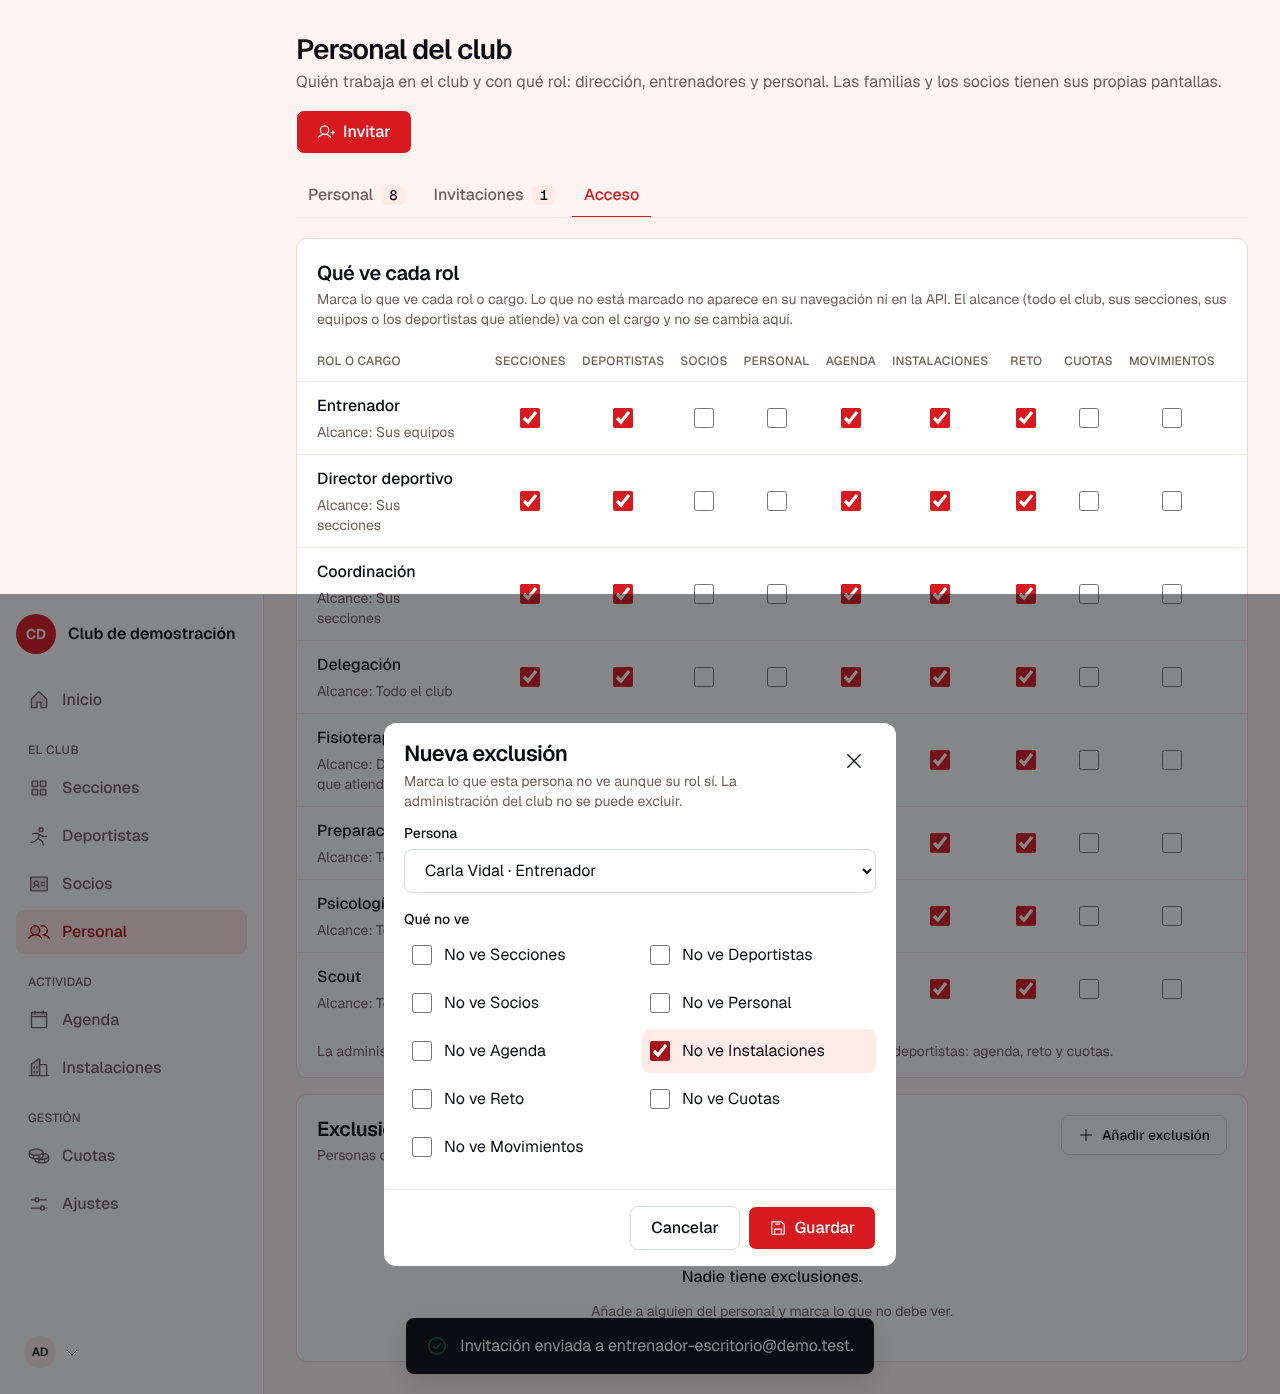
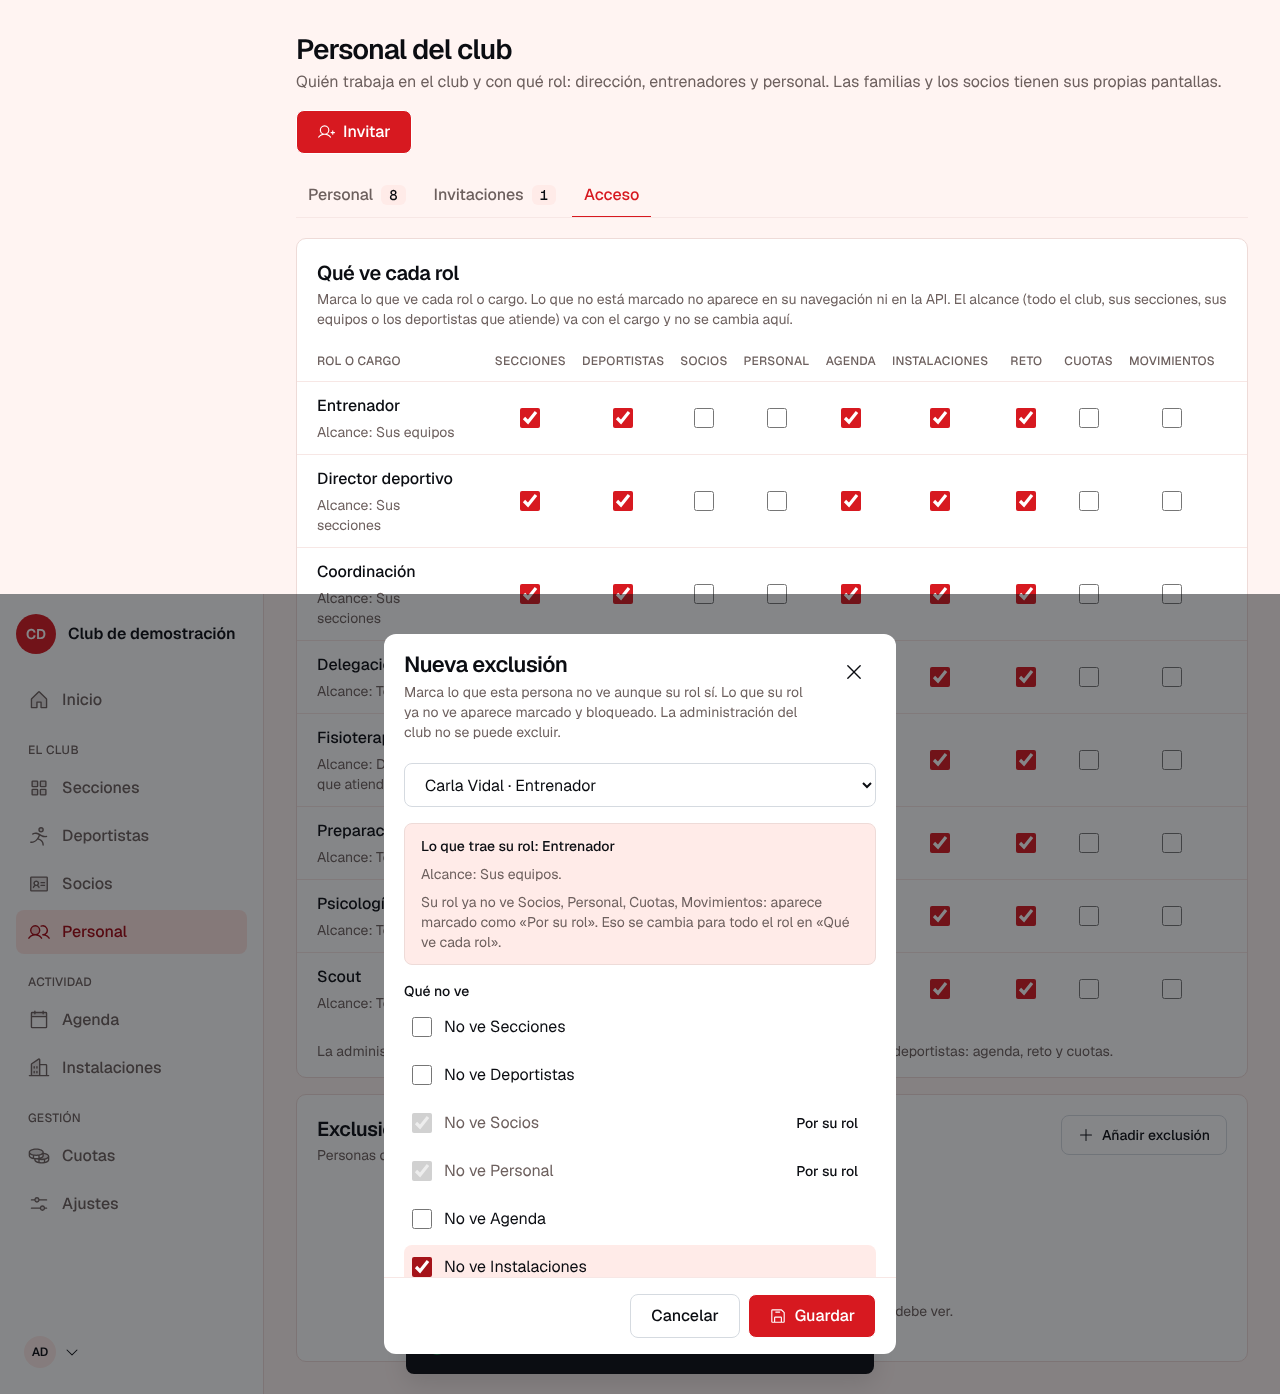
Nueva exclusión: enseña lo que ya trae el rol de la persona
Al elegir a alguien en la hoja de exclusión, se ve qué trae su rol: el rol o cargo, su
alcance (sus equipos, sus secciones, deportistas que atiende o todo el club) y las áreas
que su rol ya no ve. Esas aparecen marcadas y bloqueadas como "Por su rol"; solo se puede
excluir lo que su rol sí ve. Lo que el rol ya no ve tampoco se guarda como exclusión.

- web: lo que ve por su rol sale de la matriz del club (rol y cargo con las reglas
  aplicadas), el mismo cálculo que la API sin las exclusiones de la persona. La lista de
  exclusiones dice también el rol de cada persona. Áreas en una sola columna.
- textos en es, ca y en.
- prueba de interfaz: el resumen del rol, el alcance y las cuatro áreas bloqueadas de
  una entrenadora. Captura actualizada.

Claude-Session: https://claude.ai/code/session_01Czre9YcmjPjDi8XEnJNsAN

Changed region(s): [[0.2812, 0.4319, 0.7188, 0.9871]]

diff --git a/apps/web/src/routes/club/staff-access.tsx b/apps/web/src/routes/club/staff-access.tsx
@@ -2,12 +2,17 @@ import {
   ACCESS_AREAS,
   AccessOverviewResponseSchema,
   AccessProfileRowSchema,
+  defaultPermissionsOf,
+  isAreaVisible,
   MemberExclusionsResponseSchema,
   MembersResponseSchema,
+  profileOf,
+  scopeKindsOf,
   type AccessArea,
   type AccessOverviewResponse,
   type AccessProfileRow,
   type ConfigurableProfile,
+  type MembershipRole,
   type MembersResponse,
 } from "@sportsmanager/shared";
 import { useQuery, useQueryClient } from "@tanstack/react-query";
@@ -33,6 +38,30 @@ import {
 type Exclusion = AccessOverviewResponse["exclusions"][number];
 type Member = MembersResponse["members"][number];
 
+/** Las pertenencias de una persona del personal, con su cargo: de ahí salen su perfil y su alcance. */
+const membershipsOf = (m: Member): MembershipRole[] =>
+  m.roles.map((roleCode) => ({ roleCode, position: roleCode === "staff" ? m.position : null }));
+
+/**
+ * Lo que una persona ve por su rol, antes de sus exclusiones: por cada rol o cargo, lo que dice la
+ * matriz del club (el rol y el cargo con las reglas aplicadas); con varios, la suma. Mismo cálculo
+ * que la API (`effectivePermissions` sin las exclusiones de la persona).
+ */
+function areasByRole(member: Member, profiles: AccessProfileRow[]): Set<AccessArea> {
+  const visible = new Set<AccessArea>();
+  for (const membership of membershipsOf(member)) {
+    const profile = profileOf(membership);
+    const row = profiles.find((p) => p.profile === profile);
+    for (const area of ACCESS_AREAS) {
+      const sees = row
+        ? (row.areas.find((a) => a.area === area)?.visible ?? false)
+        : isAreaVisible(defaultPermissionsOf(profile), area);
+      if (sees) visible.add(area);
+    }
+  }
+  return visible;
+}
+
 /**
  * Qué ve cada rol (Bloque 19, ADR 0033): una matriz con un check por rol o cargo y área. Lo que
  * se marca o desmarca respecto a lo de por defecto queda como regla del club; volver a lo de por
@@ -57,6 +86,19 @@ export function AccessMatrix() {
     queryKey: ["org", slug, "access"],
     queryFn: () => apiFetch("/api/org/access", { schema: AccessOverviewResponseSchema }),
   });
+  /** Para decir el rol de cada persona con exclusiones (y lo que ve por él, en la hoja). */
+  const members = useQuery({
+    queryKey: ["org", slug, "members"],
+    queryFn: () => apiFetch("/api/org/members", { schema: MembersResponseSchema }),
+  });
+  const roleOf = (userId: string) => {
+    const m = members.data?.members.find((x) => x.userId === userId);
+    return m
+      ? m.roles
+          .map((r) => (r === "staff" && m.position ? positions(m.position) : roles(r)))
+          .join(" · ")
+      : null;
+  };
   const profileLabel = (p: ConfigurableProfile) => (p === "coach" ? roles("coach") : positions(p));
   const areaLabel = (a: AccessArea) => t(`areas.${a}`);
 
@@ -208,7 +250,12 @@ export function AccessMatrix() {
               <li key={e.userId} className="flex min-h-16 flex-wrap items-center gap-3 px-5 py-3">
                 <Avatar name={e.name} />
                 <span className="flex min-w-0 flex-1 flex-col gap-1">
-                  <span className="truncate font-medium text-ink">{e.name}</span>
+                  <span className="truncate font-medium text-ink">
+                    {e.name}
+                    {roleOf(e.userId) ? (
+                      <span className="font-normal text-muted"> · {roleOf(e.userId)}</span>
+                    ) : null}
+                  </span>
                   <span className="flex flex-wrap gap-1">
                     {e.areas.map((a) => (
                       <StatusChip key={a} kind="warning">
@@ -235,6 +282,7 @@ export function AccessMatrix() {
         <ExclusionSheet
           editing={editing === "new" ? null : editing}
           exclusions={exclusions}
+          profiles={rows}
           onClose={() => setEditing(null)}
           onSaved={() => void client.invalidateQueries({ queryKey: ["org", slug] })}
         />
@@ -255,17 +303,20 @@ export function AccessMatrix() {
 
 /**
  * Añadir o cambiar las exclusiones de una persona: quién (solo al añadir) y qué áreas no ve aunque
- * su rol sí. La administración del club no aparece: no se puede excluir. Sin ningún área marcada,
- * la persona deja de tener exclusiones.
+ * su rol sí. Enseña lo que ya trae su rol: su alcance, y las áreas que su rol no ve aparecen
+ * marcadas y bloqueadas ("Por su rol"); solo se excluye lo que su rol sí ve. La administración del
+ * club no aparece: no se puede excluir. Sin ningún área marcada, la persona deja de tener exclusiones.
  */
 function ExclusionSheet({
   editing,
   exclusions,
+  profiles,
   onClose,
   onSaved,
 }: {
   editing: Exclusion | null;
   exclusions: Exclusion[];
+  profiles: AccessProfileRow[];
   onClose: () => void;
   onSaved: () => void;
 }) {
@@ -280,7 +331,6 @@ function ExclusionSheet({
   const members = useQuery({
     queryKey: ["org", slug, "members"],
     queryFn: () => apiFetch("/api/org/members", { schema: MembersResponseSchema }),
-    enabled: editing === null,
   });
   /** Se puede excluir a quien trabaja en el club y no lo administra: ni familias solas ni administración. */
   const candidates = (members.data?.members ?? []).filter(
@@ -288,7 +338,8 @@ function ExclusionSheet({
   );
   const [userId, setUserId] = useState(editing?.userId ?? "");
   const selectedId = editing?.userId ?? (userId || candidates[0]?.userId || "");
-  const selectedName = editing?.name ?? candidates.find((m) => m.userId === selectedId)?.name ?? "";
+  const selected = (members.data?.members ?? []).find((m) => m.userId === selectedId) ?? null;
+  const selectedName = editing?.name ?? selected?.name ?? "";
   const current = (id: string) => new Set(exclusions.find((e) => e.userId === id)?.areas ?? []);
   const [excluded, setExcluded] = useState<Set<AccessArea>>(() => current(editing?.userId ?? ""));
   const [busy, setBusy] = useState(false);
@@ -298,17 +349,32 @@ function ExclusionSheet({
     m.roles
       .map((r) => (r === "staff" && m.position ? positions(m.position) : roles(r)))
       .join(" · ");
+  const areaLabel = (a: AccessArea) => t(`areas.${a}`);
+
+  /** Lo que trae su rol: hasta que se sabe quién es, nada se bloquea. */
+  const byRole = selected ? areasByRole(selected, profiles) : null;
+  const seesByRole = (a: AccessArea) => byRole === null || byRole.has(a);
+  /** Solo cuenta lo que su rol ve: excluir lo que ya no ve no cambia nada. */
+  const toSave = ACCESS_AREAS.filter((a) => excluded.has(a) && seesByRole(a));
+  const hiddenByRole = byRole ? ACCESS_AREAS.filter((a) => !byRole.has(a)) : [];
+  const scopeKinds = selected ? scopeKindsOf(membershipsOf(selected)) : null;
+  const scopeLabel = scopeKinds
+    ? scopeKinds.has("club")
+      ? t("scope.club")
+      : [...scopeKinds].map((k) => t(`scope.${k}`)).join(" · ")
+    : "";
 
   function choose(id: string) {
     setUserId(id);
     // Al elegir a alguien que ya tiene exclusiones, se parte de las suyas.
     setExcluded(current(id));
+    setError(null);
   }
 
   async function submit(e: FormEvent) {
     e.preventDefault();
     if (!selectedId) return;
-    if (editing === null && excluded.size === 0) {
+    if (editing === null && toSave.length === 0) {
       setError(ts("none"));
       return;
     }
@@ -317,12 +383,12 @@ function ExclusionSheet({
     try {
       await apiFetch(`/api/org/access/members/${selectedId}`, {
         method: "PUT",
-        body: { areas: ACCESS_AREAS.filter((a) => excluded.has(a)) },
+        body: { areas: toSave },
         schema: MemberExclusionsResponseSchema,
       });
       toast(
         "success",
-        excluded.size === 0
+        toSave.length === 0
           ? t("removed", { name: selectedName })
           : ts("saved", { name: selectedName }),
       );
@@ -377,32 +443,56 @@ function ExclusionSheet({
             </Field>
           )
         ) : null}
+
+        {selected ? (
+          <section
+            aria-labelledby="exclusion-by-role"
+            className="flex flex-col gap-2 rounded-field border border-border bg-raised px-4 py-3"
+          >
+            <h3 id="exclusion-by-role" className="text-secondary font-medium text-ink">
+              {ts("byRoleTitle", { roles: roleLabel(selected) })}
+            </h3>
+            <p className="text-secondary text-muted">{ts("scope", { scope: scopeLabel })}</p>
+            <p className="text-secondary text-muted">
+              {hiddenByRole.length === 0
+                ? ts("seesAll")
+                : ts("hides", { areas: hiddenByRole.map(areaLabel).join(", ") })}
+            </p>
+          </section>
+        ) : null}
+
         <fieldset className="flex flex-col gap-2">
           <legend className="pb-1 text-secondary font-medium text-ink">{ts("areas")}</legend>
-          <ul className="grid gap-1 sm:grid-cols-2">
-            {ACCESS_AREAS.map((area) => (
-              <li key={area}>
-                <label className="flex min-h-11 items-center gap-3 rounded-field px-2 hover:bg-raised">
-                  <input
-                    type="checkbox"
-                    className="size-5 accent-club"
-                    checked={excluded.has(area)}
-                    disabled={busy}
-                    onChange={(e) =>
-                      setExcluded((prev) => {
-                        const next = new Set(prev);
-                        if (e.target.checked) next.add(area);
-                        else next.delete(area);
-                        return next;
-                      })
-                    }
-                  />
-                  <span className="text-body text-ink">
-                    {ts("exclude", { area: t(`areas.${area}`) })}
-                  </span>
-                </label>
-              </li>
-            ))}
+          <ul className="flex flex-col gap-1">
+            {ACCESS_AREAS.map((area) => {
+              const byItsRole = !seesByRole(area);
+              return (
+                <li key={area}>
+                  <label
+                    className={`flex min-h-11 items-center gap-3 rounded-field px-2 ${byItsRole ? "" : "hover:bg-raised"}`}
+                  >
+                    <input
+                      type="checkbox"
+                      className="size-5 accent-club"
+                      checked={byItsRole || excluded.has(area)}
+                      disabled={busy || byItsRole}
+                      onChange={(e) =>
+                        setExcluded((prev) => {
+                          const next = new Set(prev);
+                          if (e.target.checked) next.add(area);
+                          else next.delete(area);
+                          return next;
+                        })
+                      }
+                    />
+                    <span className={`flex-1 text-body ${byItsRole ? "text-muted" : "text-ink"}`}>
+                      {ts("exclude", { area: areaLabel(area) })}
+                    </span>
+                    {byItsRole ? <StatusChip kind="neutral">{ts("byRoleChip")}</StatusChip> : null}
+                  </label>
+                </li>
+              );
+            })}
           </ul>
         </fieldset>
         {error ? <Alert kind="error">{error}</Alert> : null}

diff --git a/apps/web/e2e/club.spec.ts b/apps/web/e2e/club.spec.ts
@@ -58,11 +58,20 @@ test.describe("espacio del club", () => {
     await exclusionSheet
       .getByLabel("Persona", { exact: true })
       .selectOption({ label: "Carla Vidal · Entrenador" });
-    await exclusionSheet.getByRole("checkbox", { name: "No ve Instalaciones" }).check();
+    // Lo que trae su rol: el alcance, y lo que su rol ya no ve, marcado y bloqueado.
+    await expect(exclusionSheet.getByText("Lo que trae su rol: Entrenador")).toBeVisible();
+    await expect(exclusionSheet.getByText("Alcance: Sus equipos.")).toBeVisible();
+    const hiddenByRole = exclusionSheet.getByRole("checkbox", { name: "No ve Socios" });
+    await expect(hiddenByRole).toBeChecked();
+    await expect(hiddenByRole).toBeDisabled();
+    await expect(exclusionSheet.getByText("Por su rol", { exact: true })).toHaveCount(4);
+    const facilities = exclusionSheet.getByRole("checkbox", { name: "No ve Instalaciones" });
+    await expect(facilities).toBeEnabled();
+    await facilities.check();
     await shot(page, "14b-personal-exclusion", info.project.name);
     await exclusionSheet.getByRole("button", { name: "Guardar" }).click();
     await expect(page.getByText("Exclusiones de Carla Vidal guardadas.")).toBeVisible();
-    await expect(exclusions.getByText("Carla Vidal")).toBeVisible();
+    await expect(exclusions.getByText("Carla Vidal · Entrenador")).toBeVisible();
     await expect(exclusions.getByText("Sin Instalaciones")).toBeVisible();
     await exclusions.getByRole("button", { name: "Quitar" }).click();
     await page.getByRole("dialog").getByRole("button", { name: "Quitar" }).click();

diff --git a/docs/capturas/README.md b/docs/capturas/README.md
@@ -214,7 +214,7 @@ Cada club vive en una ruta del mismo dominio: el club demo en `/demo`, el negoci
 
 ![Acceso por rol](escritorio-14-personal-acceso.png)
 
-### Nueva exclusión por persona, desde la propia pestaña "Acceso" (ADR 0035)
+### Nueva exclusión por persona, desde la propia pestaña "Acceso", con lo que ya trae su rol (ADR 0035)
 
 ![Nueva exclusión](escritorio-14b-personal-exclusion.png)
 
